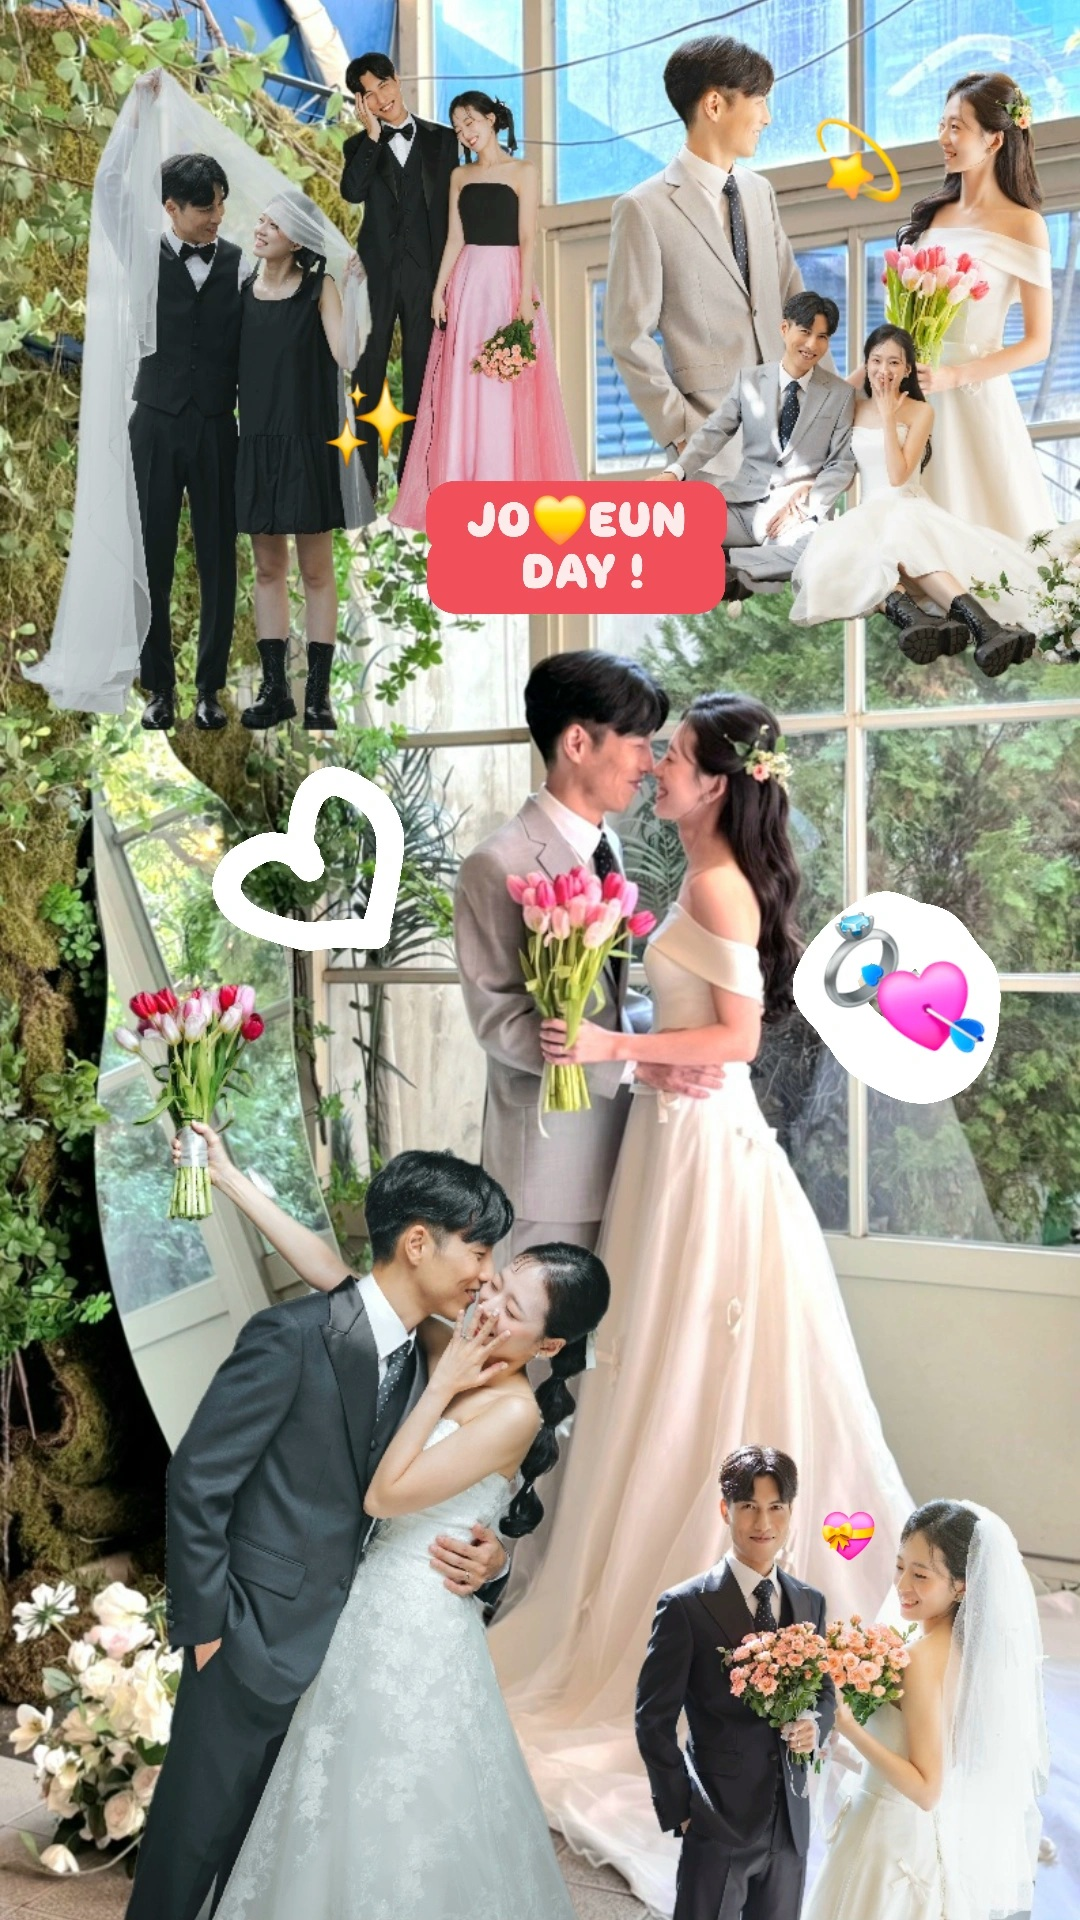
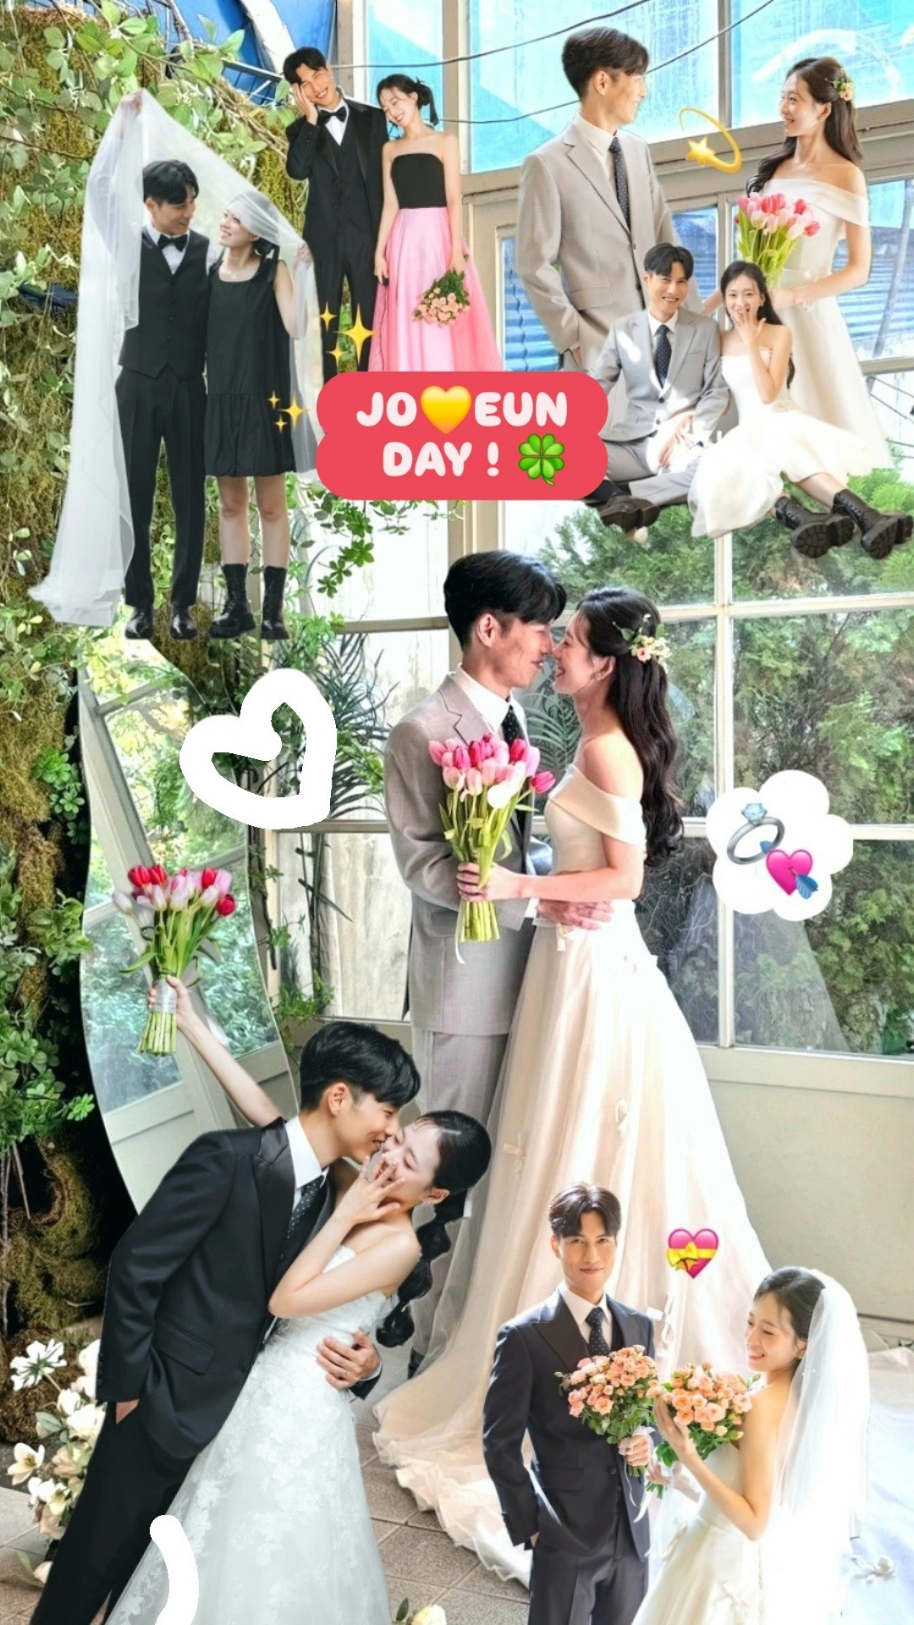
no message

diff --git a/css/styles.css b/css/styles.css
@@ -11059,13 +11059,15 @@ footer.footer .social-link:hover {
   display: table;
   width: 100%;
   height: auto;
-  padding-top: 8rem;
-  padding-bottom: 8rem;
-  background: linear-gradient(90deg, rgba(255, 255, 255, 0.1) 0%, rgba(255, 255, 255, 0.1) 100%), url("../assets/photo/MH_17_GHO_2118.jpg");
-  /*background: linear-gradient(90deg, rgba(255, 255, 255, 0.1) 0%, rgba(255, 255, 255, 0.1) 100%), url("../assets/photo/M15_GHO_2543.jpg");*/
+  /*padding-top: 8rem;
+  padding-bottom: 8rem;*/
+  /*background: linear-gradient(90deg, rgba(255, 255, 255, 0.1) 0%, rgba(255, 255, 255, 0.1) 100%), url("../assets/photo/MH_17_GHO_2118.jpg");*/
+  background: #FFD9EC;
   background-position: center center;
   background-repeat: no-repeat;
   background-size: cover;
+  display: flex;
+  justify-content: center;
 }
 .masthead h1, .masthead .h1 {
   font-size: 4rem;
@@ -11079,6 +11081,13 @@ footer.footer .social-link:hover {
   .masthead h1, .masthead .h1 {
     font-size: 5.5rem;
   }
+}
+
+.masthead-img {
+    height: 100%;
+    width: 100%;
+    background-size: contain;
+    border-radius: 1rem 1rem 1rem 1rem;
 }
 
 .portfolio-item {

diff --git a/index.html b/index.html
@@ -42,6 +42,9 @@
         </nav>-->
         <!-- Header-->
         <header class="masthead d-flex align-items-center">
+            <div style="padding: 2.5rem;">
+                <img class="masthead-img" src="assets/photo/MH_17_GHO_2118.jpg" alt="">
+            </div>
             <div style="display: none;">
                 <img class="header-img-text" src="assets/img/img_text.png" alt="">
             </div>
@@ -52,7 +55,7 @@
             </div>-->
         </header>
         <!-- About-->
-        <section class="content-section" style="background: #FFD9EC;" id="about">
+        <section class="content-section" style="background: #FFD9EC; padding-top: 5rem;" id="about">
             <div class="container px-4 px-lg-5 text-center">
                 <div class="row gx-4 gx-lg-5 justify-content-center">
                     <div class="col-lg-10">
